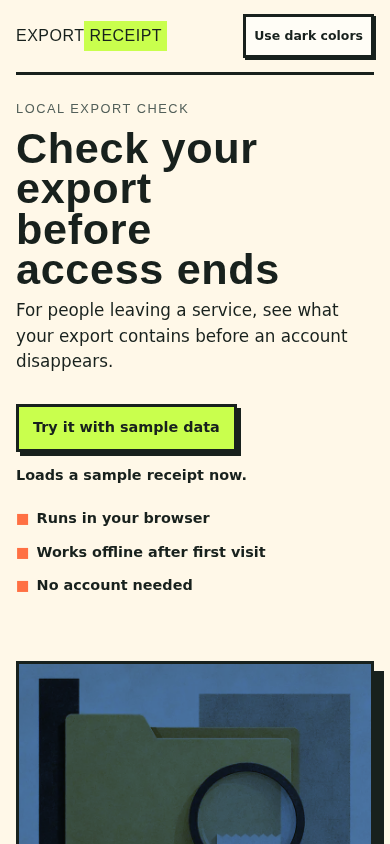
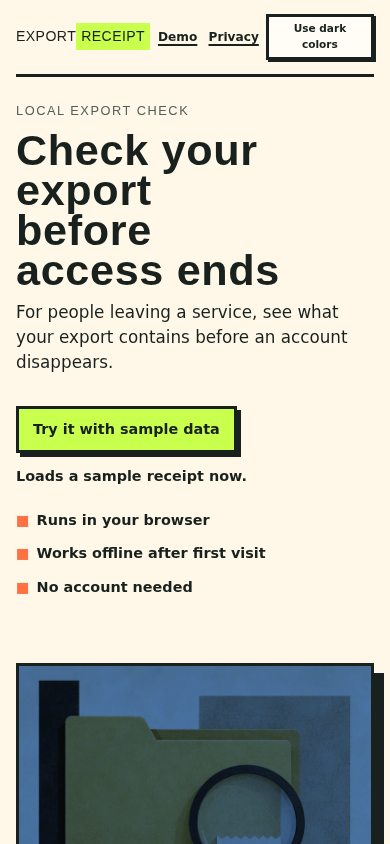
fix: restore mobile receipt navigation

diff --git a/src/asset-overrides.css b/src/asset-overrides.css
@@ -6,7 +6,7 @@ button.secondary,.findings .info b{color:#18211d}
 .wordmark,.site-header nav a,footer a{min-width:44px;min-height:44px;display:inline-flex;align-items:center}
 .site-header nav{gap:8px}.theme-toggle,.demo-bar button,#update-toast button{min-width:44px;min-height:44px}.demo-bar button{padding:4px 11px}
 .inspector-note{border-top:2px solid var(--ink);margin:0;padding:16px 0 0}.table-wrap:focus-visible{outline:4px solid var(--orange);outline-offset:4px}
-@media (max-width:760px){.site-header{min-height:62px;align-items:center}.site-header nav a{display:none}.site-header nav{flex-wrap:nowrap}.wordmark{font-size:1rem;white-space:nowrap}.hero-art img{min-height:270px}.report-head .stamp{display:none}}
+@media (max-width:760px){.site-header{min-height:62px;align-items:center;gap:6px}.site-header nav{flex-wrap:nowrap;gap:4px;font-size:.76rem}.site-header nav a{display:inline-flex;padding:0 4px}.site-header nav a:nth-child(2){display:none}.wordmark{font-size:.88rem;white-space:nowrap}.theme-toggle{font-size:.66rem;padding:4px 6px}.hero-art img{min-height:270px}.report-head .stamp{display:none}}
 .theme-toggle{min-height:44px}
 .verify-receipt{border:var(--line);background:var(--panel);padding:22px;margin-bottom:70px}.verify-receipt p{max-width:65ch}.verify-picker,.button-link{display:inline-flex;align-items:center;min-height:44px;border:var(--line);padding:9px 13px;background:var(--panel);box-shadow:4px 4px 0 var(--ink);font-weight:800;text-decoration:none;cursor:pointer}.verify-picker input{max-width:205px;margin-left:10px}.primary-link{background:var(--lime)}.actions{display:flex;flex-wrap:wrap;gap:14px}
 @media (max-width:760px){.hero{padding:24px 0 42px}.hero-art{order:initial;margin-top:10px}.verify-picker{align-items:flex-start;flex-direction:column;gap:8px}.verify-picker input{margin-left:0;max-width:100%}}

diff --git a/.factory/polish-2.md b/.factory/polish-2.md
@@ -1,0 +1,24 @@
+# Polish round 2 — zero-finding closure
+
+Repair candidate: `7ce9f7d7599ed7833cf87f40b9e5b4672bda3a01`. Reviewed reports: `.factory/review-1.md` and `.factory/review-2.md` (with the associated prior verification and polish records).
+
+| Finding ID | Change made | Evidence |
+|---|---|---|
+| F-1-1 | Kept the precached shell navigation path and its true one-visit offline demo assertion. | `@claim:offline-reload`; full `npm test`. |
+| F-1-2 | Kept demo color changes in memory and asserted that reset/exit preserve real storage byte-for-byte. | `@claim:demo-isolation`; full `npm test`. |
+| F-1-3 | Kept the CSP-safe, receipt-styled static 404 with the shared accessibility controls. | Full browser suite 404 + axe check; `artifacts/404-local.png`. |
+| F-1-4 | Kept `?demo=1` redirecting into the isolated `/demo` sample route. | `@claim:demo-isolation`; full `npm test`. |
+| F-1-5 | Kept the mobile copy-before-art layout and first-viewport assertion. | Full browser suite; `artifacts/mobile-first-screen.png`. |
+| F-1-6 | Kept the route-specific empty `/receipt` state with real start actions. | Full browser route metadata check. |
+| F-1-7 | Kept per-route title, description, canonical, Open Graph, and Twitter metadata assertions. | Full browser route metadata check. |
+| F-1-8 | Kept named Harbor Mail, Google Takeout, and Meta Download category fixtures. | `@claim:recognized-layouts`. |
+| F-1-9 | Kept local JSON receipt verification and valid/tampered receipt results. | `@claim:receipt-verification`. |
+| F-1-10 | Kept **export** as the visitor-facing input term. | `.factory/copy-audit.md`; browser copy/claim annotation check. |
+| F-1-11 | Kept result-naming color controls. | `@claim:preference-storage`. |
+| F-1-12 | Kept the short README audience copy. | `.factory/copy-audit.md`. |
+| F-1-13 | Kept the short README feature copy and named-layout claim. | `.factory/copy-audit.md`; `@claim:recognized-layouts`. |
+| F-1-14 | Kept the short README safety-limit copy. | `.factory/copy-audit.md`; `@claim:safe-archive-limits`. |
+| F-1-15 | Kept the short README test-coverage copy. | `.factory/copy-audit.md`; full `npm test`. |
+| F-2-1 | Restored compact, visible 44 px **Demo** and **Privacy** links at 390 px; the secondary “How it works” anchor is intentionally hidden only at this compact breakpoint. Added a regression that measures both links and follows each route. | Full production-browser suite; `artifacts/mobile-first-screen.png`; local `http://127.0.0.1:4173/` during test. |
+
+All claim commands, quality gates, a clean-clone run, and the live re-check are recorded in `.factory/handoff.md`.
